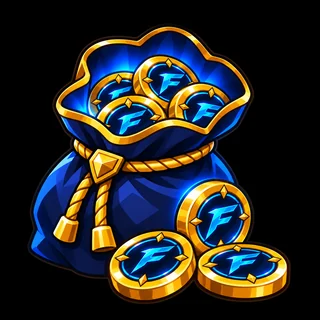
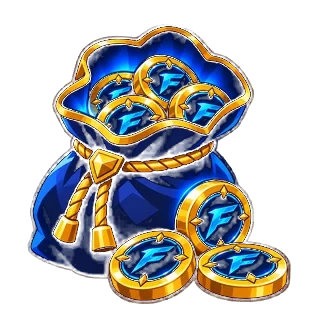
Top-up cards: calm stage light from below, packs on transparent backgrounds, quiet colours
Claude-Session: https://claude.ai/code/session_01TcQZBqkxUw3iNcovWih4PN

diff --git a/src/components/shop-topup.tsx b/src/components/shop-topup.tsx
@@ -38,8 +38,10 @@ const STATE_LABEL: Record<TopUp["status"], string> = { pending: "Waiting for pay
 function BottomLight({ on }: { on: boolean }) {
   return (
     <>
-      <span aria-hidden="true" className={cn("pointer-events-none absolute inset-x-0 bottom-0 h-14 bg-[radial-gradient(70%_100%_at_50%_100%,rgb(255_255_255/0.16),transparent)] transition-opacity duration-300 group-hover:opacity-100", on ? "opacity-100" : "opacity-40")} />
-      <span aria-hidden="true" className={cn("pointer-events-none absolute inset-x-5 bottom-0 h-[2px] bg-gradient-to-r from-transparent via-white to-transparent transition-opacity duration-300 group-hover:opacity-100", on ? "opacity-90" : "opacity-35")} />
+      {/* A stage light from below: a soft beam that widens as it rises, a pool of light at the foot, and a thin line on the edge. Calm: low when idle, a little higher when picked or hovered. */}
+      <span aria-hidden="true" className={cn("pointer-events-none absolute inset-x-0 bottom-0 h-[78%] [clip-path:polygon(34%_100%,66%_100%,100%_0,0_0)] bg-[linear-gradient(0deg,rgb(150_180_255/0.30),rgb(150_180_255/0.08)_55%,transparent)] blur-[6px] transition-opacity duration-500 group-hover:opacity-100", on ? "opacity-100" : "opacity-45")} />
+      <span aria-hidden="true" className={cn("pointer-events-none absolute inset-x-0 bottom-0 h-16 bg-[radial-gradient(60%_100%_at_50%_100%,rgb(190_208_255/0.28),transparent)] transition-opacity duration-500 group-hover:opacity-100", on ? "opacity-100" : "opacity-55")} />
+      <span aria-hidden="true" className={cn("pointer-events-none absolute inset-x-8 bottom-0 h-px bg-gradient-to-r from-transparent via-[rgb(230_200_130)] to-transparent transition-opacity duration-500 group-hover:opacity-100", on ? "opacity-90" : "opacity-40")} />
     </>
   )
 }
@@ -145,13 +147,13 @@ export function ShopTopUp() {
             {balance != null && after != null && (
               <div className="flex flex-col gap-2">
                 <div className="relative h-3 overflow-hidden rounded-full bg-[var(--line)]" role="img" aria-label={`Balance ${balance.toLocaleString()} FOL$, ${after.toLocaleString()} FOL$ after the top-up`}>
-                  <span className="absolute inset-y-0 left-0 rounded-full bg-[var(--status-green)]/70 transition-[width] duration-500" style={{ width: `${percent(after)}%` }} />
+                  <span className="absolute inset-y-0 left-0 rounded-full bg-[rgb(150_180_255)]/70 transition-[width] duration-500" style={{ width: `${percent(after)}%` }} />
                   <span className="absolute inset-y-0 left-0 rounded-full bg-[var(--accent-solid)] transition-[width] duration-500" style={{ width: `${percent(balance)}%` }} />
                   {clanPrice != null && <span className="absolute inset-y-0 w-0.5 bg-[var(--bg)]" style={{ left: `calc(${percent(clanPrice)}% - 1px)` }} />}
                 </div>
                 <div className="flex items-center justify-between text-[12px] text-[var(--text-muted)]">
                   <span className="flex items-center gap-1.5"><LxMark size={14} />{balance.toLocaleString()}</span>
-                  <span className="flex items-center gap-1.5 font-semibold text-[var(--status-green)]">→ <LxMark size={14} /><AnimatedNumber value={after} durationMs={450} /></span>
+                  <span className="flex items-center gap-1.5 font-semibold text-[rgb(150_180_255)]">→ <LxMark size={14} /><AnimatedNumber value={after} durationMs={450} /></span>
                 </div>
               </div>
             )}
@@ -171,11 +173,11 @@ export function ShopTopUp() {
             return (
               <button key={pack.id} type="button" role="radio" aria-checked={on} onClick={() => setPicked(pack.id)} className={cn("lx-frost group relative flex flex-col items-center gap-2 overflow-hidden rounded-xl border bg-[var(--card-surface)] min-h-[104px] px-2 pb-3 pt-2.5 text-center transition-all hover:-translate-y-0.5 focus-visible:outline-none focus-visible:ring-2 focus-visible:ring-[var(--accent-solid)]/50 motion-reduce:transition-none motion-reduce:hover:translate-y-0", on ? "border-[var(--text)] bg-[var(--raised)]" : "border-[var(--line-soft)] hover:border-[var(--line-strong)]")}>
                 <span className="flex h-5 w-full items-center justify-between" aria-hidden={!bonus && bestValue?.id !== pack.id && !on}>
-                  {bonus > 0 ? <span className="rounded-full border border-[var(--status-green)]/40 bg-[var(--status-green)]/10 text-[var(--status-green)] px-1.5 py-px text-[10px] font-semibold">+{bonus}%</span>
-                    : bestValue?.id === pack.id ? <span className="rounded-full border border-[var(--status-green)]/40 bg-[var(--status-green)]/10 text-[var(--status-green)] px-1.5 py-px text-[10px] font-semibold">Best</span> : <span />}
+                  {bonus > 0 ? <span className="rounded-full border border-white/20 bg-white/[0.06] text-[rgb(190_208_255)] px-1.5 py-px text-[10px] font-semibold">+{bonus}%</span>
+                    : bestValue?.id === pack.id ? <span className="rounded-full border border-white/20 bg-white/[0.06] text-[rgb(190_208_255)] px-1.5 py-px text-[10px] font-semibold">Best</span> : <span />}
                   {on ? <span className="grid size-5 place-items-center rounded-full bg-[var(--text)] text-[var(--bg)]"><Check className="size-3.5" aria-hidden="true" /></span> : <span />}
                 </span>
-                <img src={pack.imageUrl ?? packArt(index, packages.length)} alt="" loading="lazy" draggable={false} className={cn("size-[88px] object-cover", !pack.imageUrl && "mix-blend-screen")} />
+                <img src={pack.imageUrl ?? packArt(index, packages.length)} alt="" loading="lazy" draggable={false} className="relative size-[88px] object-contain" />
                 <span className="mt-2 flex items-baseline gap-1.5"><span className="text-[22px] font-bold leading-none text-[var(--text)]">{pack.grantsLx.toLocaleString()}</span><span className="text-[11px] font-semibold text-[var(--text-muted)]">FOL$</span></span>
                 <span className="text-[13px] text-[var(--text-2)]">{mnt(pack.priceMnt)}</span>
                 <span className="mt-auto h-1 w-full overflow-hidden rounded-full bg-[var(--line)]" aria-hidden="true"><span className="block h-full rounded-full bg-[var(--text-faint)] transition-colors group-hover:bg-[var(--text-2)]" style={{ width: `${Math.max(6, (pack.grantsLx / Math.max(...packages.map((item) => item.grantsLx), 1)) * 100)}%`, ...(on ? { background: "var(--text)" } : null) }} /></span>
